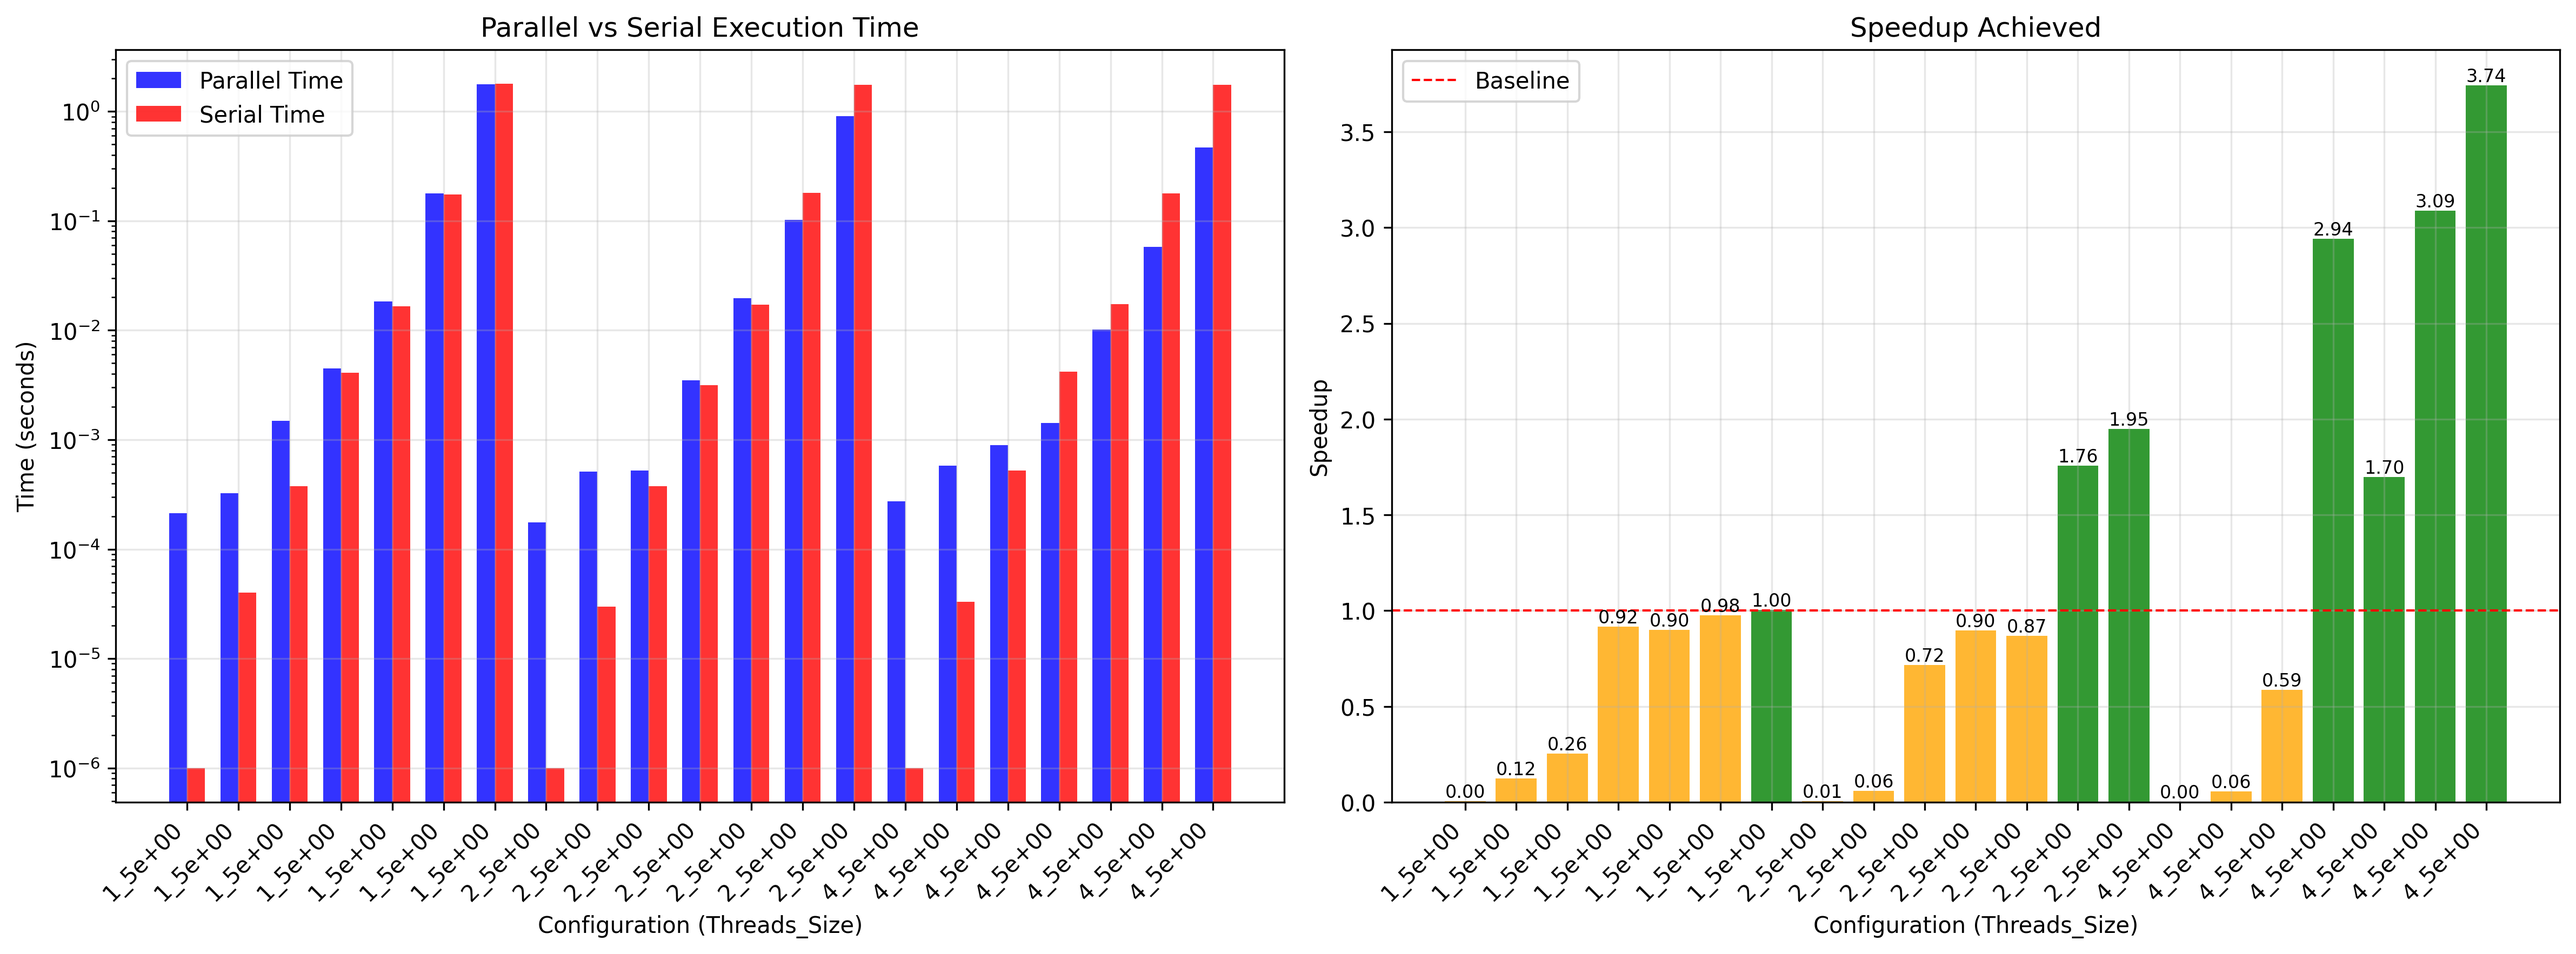
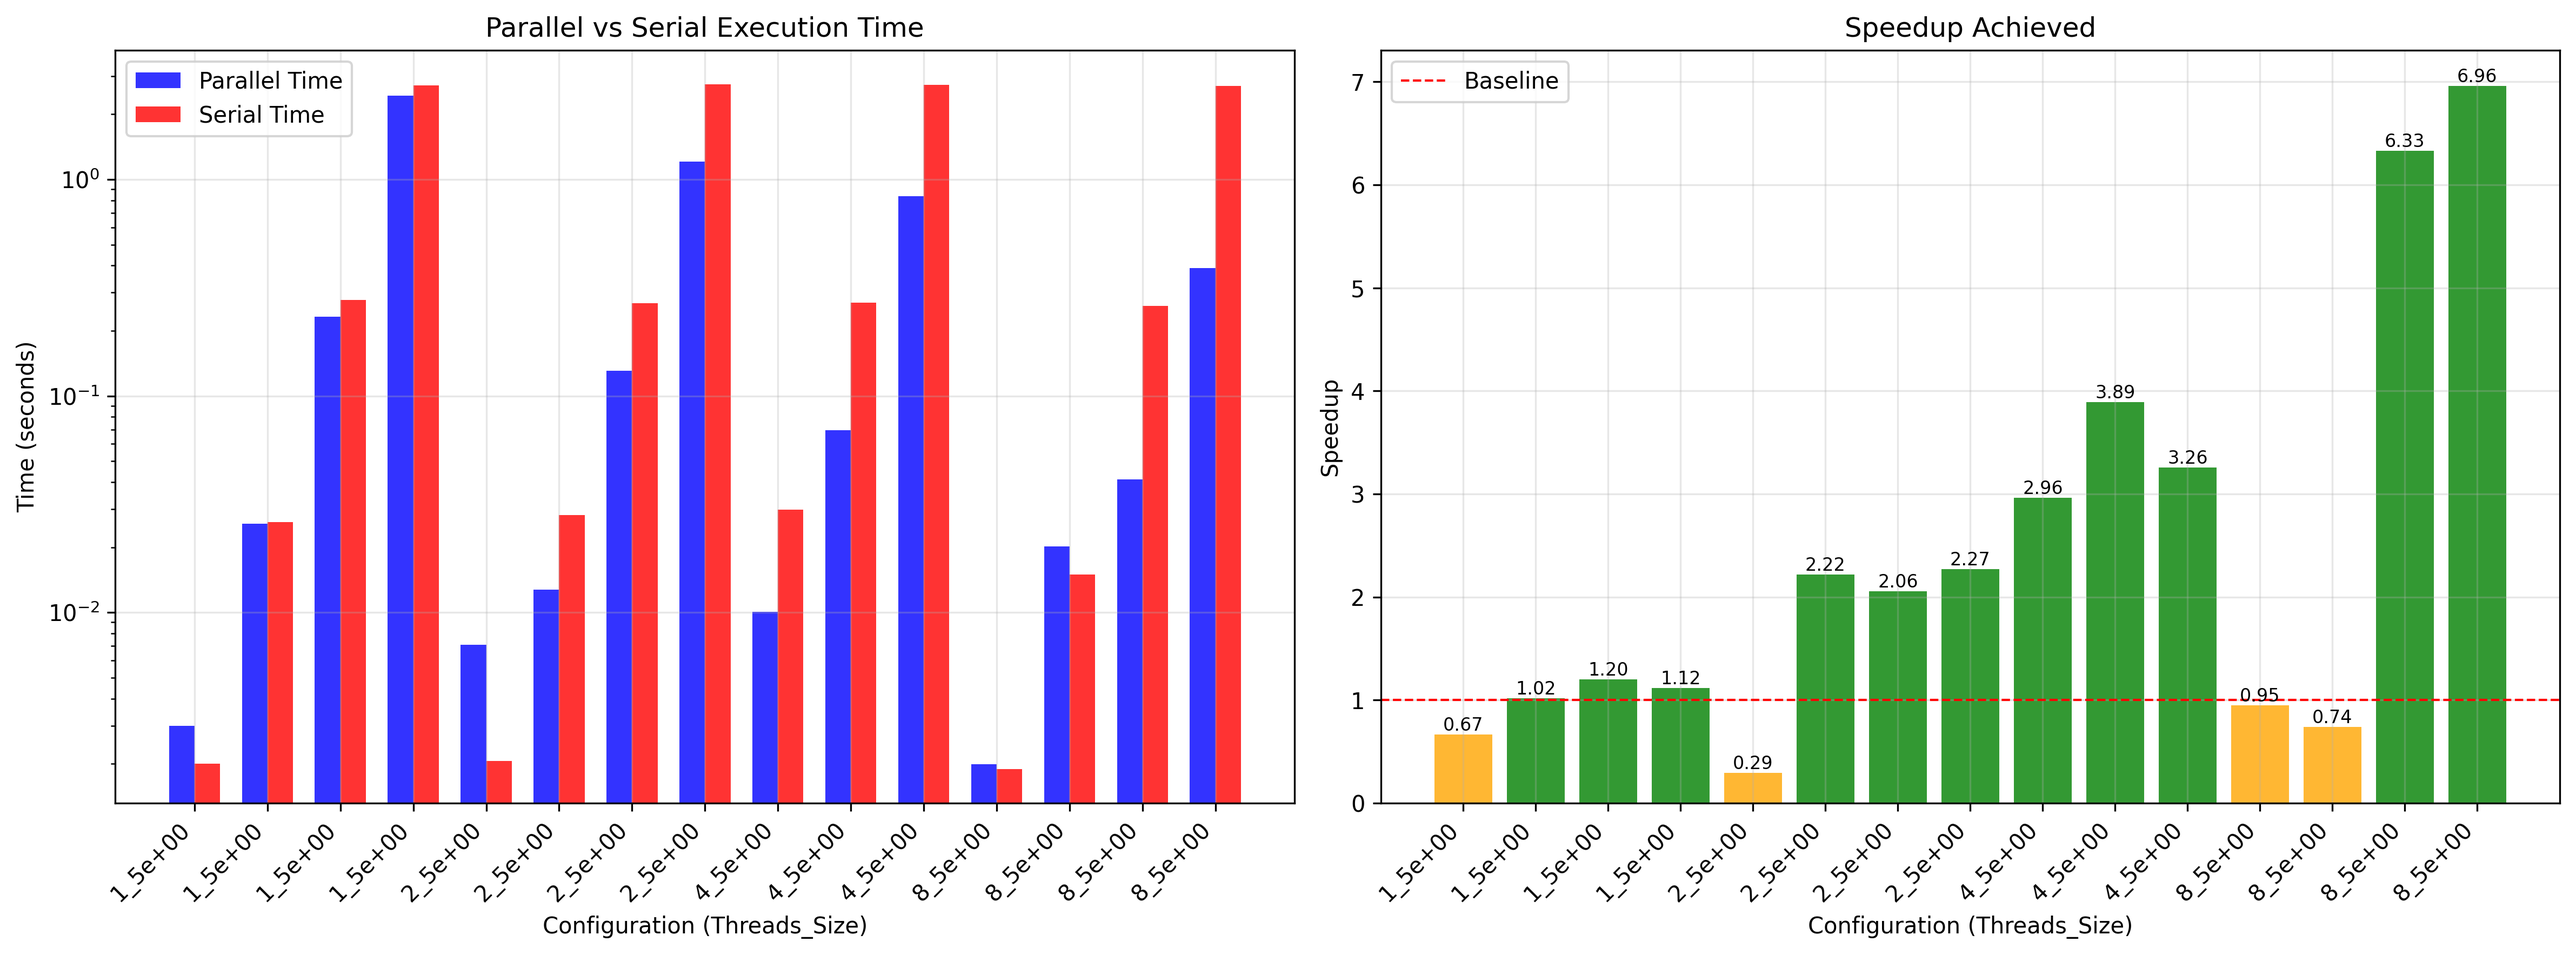
add mpi and run 8 threads

diff --git a/contoh_mpi.cpp b/contoh_mpi.cpp
@@ -1,0 +1,54 @@
+#include <mpi.h>
+#include <iostream>
+#include <cstring>
+
+int main(int argc, char** argv) {
+    // Inisialisasi MPI
+    MPI_Init(&argc, &argv);
+
+    int world_size;
+    MPI_Comm_size(MPI_COMM_WORLD, &world_size);
+
+    int world_rank;
+    MPI_Comm_rank(MPI_COMM_WORLD, &world_rank);
+
+    // Dapatkan nama prosesor
+    char processor_name[MPI_MAX_PROCESSOR_NAME];
+    int name_len;
+    MPI_Get_processor_name(processor_name, &name_len);
+
+    // Contoh pertukaran pesan
+    if (world_rank == 0) {
+        // Process 0 mengirim pesan ke process 1
+        char message[] = "Halo dari process 0!";
+        MPI_Send(message, strlen(message)+1, MPI_CHAR, 1, 0, MPI_COMM_WORLD);
+        std::cout << "Process 0 mengirim pesan: " << message << std::endl;
+    }
+    else if (world_rank == 1) {
+        // Process 1 menerima pesan dari process 0
+        char received_message[100];
+        MPI_Recv(received_message, 100, MPI_CHAR, 0, 0, MPI_COMM_WORLD, MPI_STATUS_IGNORE);
+        std::cout << "Process 1 menerima pesan: " << received_message << std::endl;
+    }
+
+    // Contoh penggunaan broadcast
+    int data_broadcast;
+    if (world_rank == 0) {
+        data_broadcast = 100;
+    }
+    MPI_Bcast(&data_broadcast, 1, MPI_INT, 0, MPI_COMM_WORLD);
+    std::cout << "Process " << world_rank << " menerima data broadcast: " << data_broadcast << std::endl;
+
+    // Contoh penggunaan reduce (sum)
+    int local_data = world_rank * 10;
+    int global_sum;
+    MPI_Reduce(&local_data, &global_sum, 1, MPI_INT, MPI_SUM, 0, MPI_COMM_WORLD);
+    
+    if (world_rank == 0) {
+        std::cout << "Total sum dari semua process: " << global_sum << std::endl;
+    }
+
+    // Finalisasi MPI
+    MPI_Finalize();
+    return 0;
+}

diff --git a/plot_results.py b/plot_results.py
@@ -369,8 +369,8 @@ def save_cleaned_data(df, filename='cleaned_results.csv'):
 
 def main():
     """Main function"""
-    # filename = 'results.csv'
-    filename = 'benchmark_results.csv'  # Ganti dengan nama file yang sesuai
+    filename = 'results.csv'
+    # filename = 'benchmark_results.csv'  # Ganti dengan nama file yang sesuai
     
     # Read data
     df = read_and_process_data(filename)
